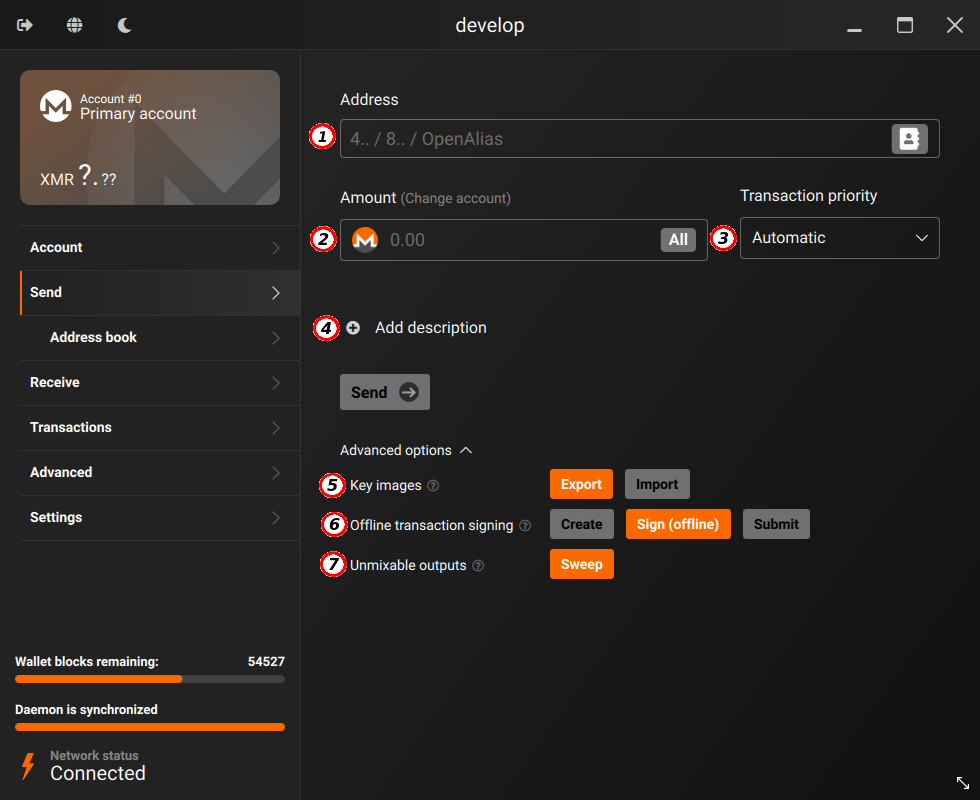
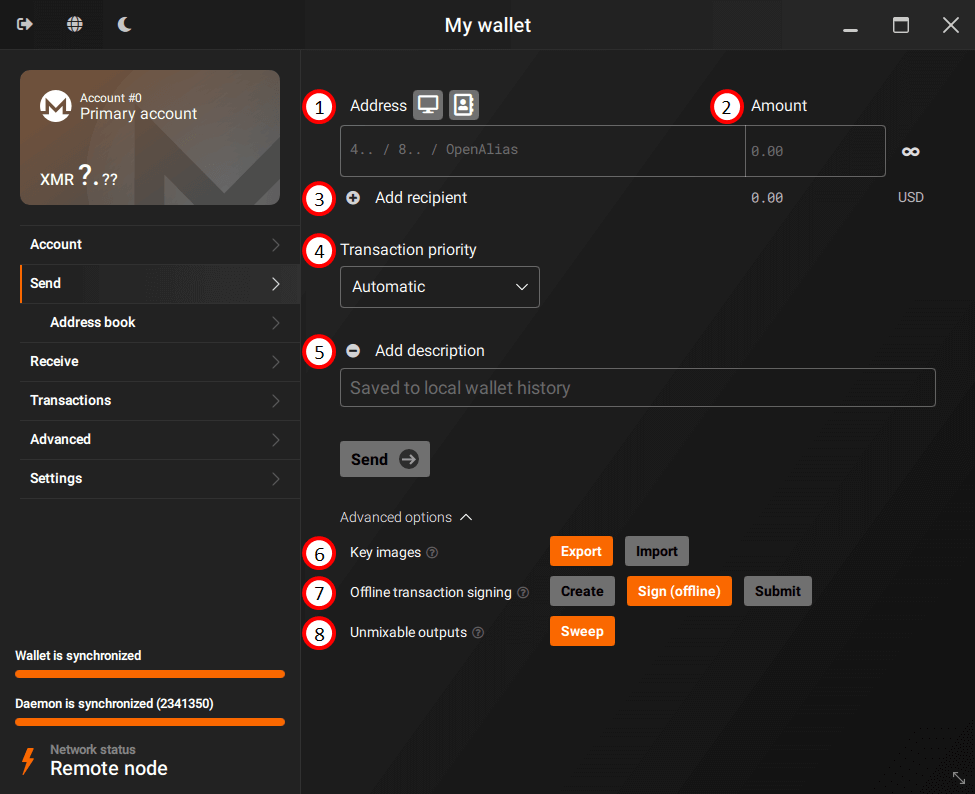
ch05: add multiple recipients; add scan QR code from screen button (#202)
* ch05: add multiple recipients; add scan QR code from screen button

* Update ch05.md

* Update ch05.md

* Add files via upload

diff --git a/en/ch05.md b/en/ch05.md
@@ -3,17 +3,18 @@
 
 The `Send` tab provides tools for creating outgoing transactions.
 
-(1) **Address:** This is where you enter the destination address of the transaction. You can either enter a Monero address (a primary address starting with 4... or a subadress starting with 8...) or an OpenAlias address (see [this page](https://www.getmonero.org/resources/moneropedia/openalias.html) for more information about OpenAlias). Best practice is to copy and paste the address to prevent errors. Since there are malwares that may replace the address of your clipboard with an address associated with hackers, you should always verify the destination address after pasting it. Click on the *Address book* button on the right side to import an address from the address book of your wallet.  
-(2) **Amount:** This is how much Monero (XMR) you want to send. Click on the *All* button on the right side to create a transaction spending all the spendable (unlocked) balance available in your selected account. If you have enabled the option to display the balance in other currencies in Settings > Interface, your wallet will also display the amount converted in fiat currency.  
-(3) **Transaction priority (requires wallet in advanced mode):** This is the priority level your transaction will receive in the pool of transactions waiting to be confirmed. The higher the transaction priority, the faster your transaction will be confirmed (included in a block), but the higher you will pay in transaction fee.  
-*Currently staying with the default or the slow option is likely to get you into the next block.*  
-(4) **Description (optional):** Here you can add some information regarding your transaction for future reference. This function is for your record keeping only. The description text will be stored in your wallet file and only you will be able to see it. It will not be be sent to the receiver, nor stored on the blockchain.
+(1) **Address:** This is where you enter the destination address of the transaction. You can either enter a Monero address (a primary address starting with 4... or a subadress starting with 8...) or an OpenAlias address (see [this page](https://www.getmonero.org/resources/moneropedia/openalias.html) for more information about OpenAlias). Best practice is to copy and paste the address to prevent errors. Since there are malwares that may replace the address of your clipboard with an address associated with hackers, you should always verify the destination address after pasting it. Click on the *Scan QR code from screen* button on the title to scan a QR code from another window of your desktop. Click on the *Address book* button on the title to import an address from the address book of your wallet.  
+(2) **Amount:** This is how much Monero (XMR) you want to send. Click on the *infinity symbol* on the right side to create a transaction spending all the spendable (unlocked) balance available in your selected account. If you have enabled the option to display the balance in other currencies in Settings > Interface, your wallet will also display the amount converted in fiat currency.  
+(3) **Add recipient:** Click here if you want to send a transaction with multiple recipients (up to 16), saving on transaction fees. To remove a recipient, click on the *cross symbol* on the right side.  
+(4) **Transaction priority:** (requires wallet in advanced mode) This is the priority level your transaction will receive in the pool of transactions waiting to be confirmed. The higher the transaction priority, the faster your transaction will be confirmed (included in a block), but the higher you will pay in transaction fee.  
+*It's recommended to select the default (Automatic) or Slow (x0.2 fee) option, which are likely to get your transaction into the next block (in approximately 2 minutes).*  
+(5) **Description (optional):** Here you can add some information regarding your transaction for future reference. This function is for your record keeping only. The description text will be stored in your wallet file and only you will be able to see it. It will not be be sent to the receiver, nor stored on the blockchain.
 
 **Advanced options** (requires wallet in advanced mode)
 
-(5) **Key images:** This section allows you to export the key images from your cold wallet into a file, as well as to import this key images file into your view-only wallet. When your view-only wallet has the key images for all outputs, it can display the true balance. In order to import the key images into your view-only wallet,  you must use a local node or be connected to a trusted remote node (you can set a trusted remote node in "Settings" > "Node" page). Click on the question mark icon to see step-by-step instructions.  
-(6) **Offline transaction signing:** This feature refers to the practice of keeping the private keys in a cold wallet, which is a wallet installed in an offline ("cold") device. Since the offline wallet never gets connected to the internet, its stored private keys remain secure. The cold wallet is only used to sign individual transactions, which are later sent to the Monero network using a view-only wallet. Click on the question mark icon to see step-by-step instructions.  
-(7) **Sweep unmixable:** This allows you to get rid of outputs which have strange amounts like `0.000006839355` and can't be spent without combining them with another output.  
+(6) **Key images:** This section allows you to export the key images from your cold wallet into a file, as well as to import this key images file into your view-only wallet. When your view-only wallet has the key images for all outputs, it can display the true balance. In order to import the key images into your view-only wallet,  you must use a local node or be connected to a trusted remote node (you can set a trusted remote node in "Settings" > "Node" page). Click on the question mark icon to see step-by-step instructions.  
+(7) **Offline transaction signing:** This feature refers to the practice of keeping the private keys in a cold wallet, which is a wallet installed in an offline ("cold") device. Since the offline wallet never gets connected to the internet, its stored private keys remain secure. The cold wallet is only used to sign individual transactions, which are later sent to the Monero network using a view-only wallet. Click on the question mark icon to see step-by-step instructions.  
+(8) **Unmixable outputs:** This allows you to get rid of outputs which have strange amounts like `0.000006839355` and can't be spent without combining them with another output.  
 *Most users will never need to use this feature.*
 
 ## Address Book
